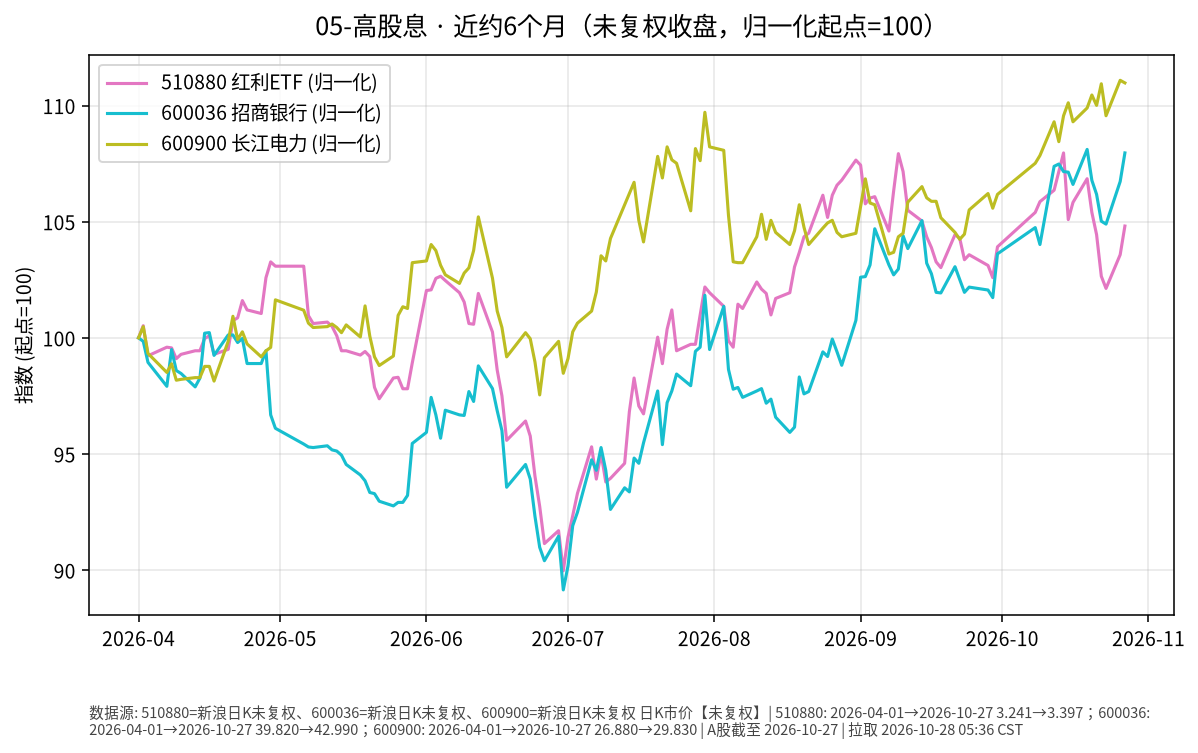
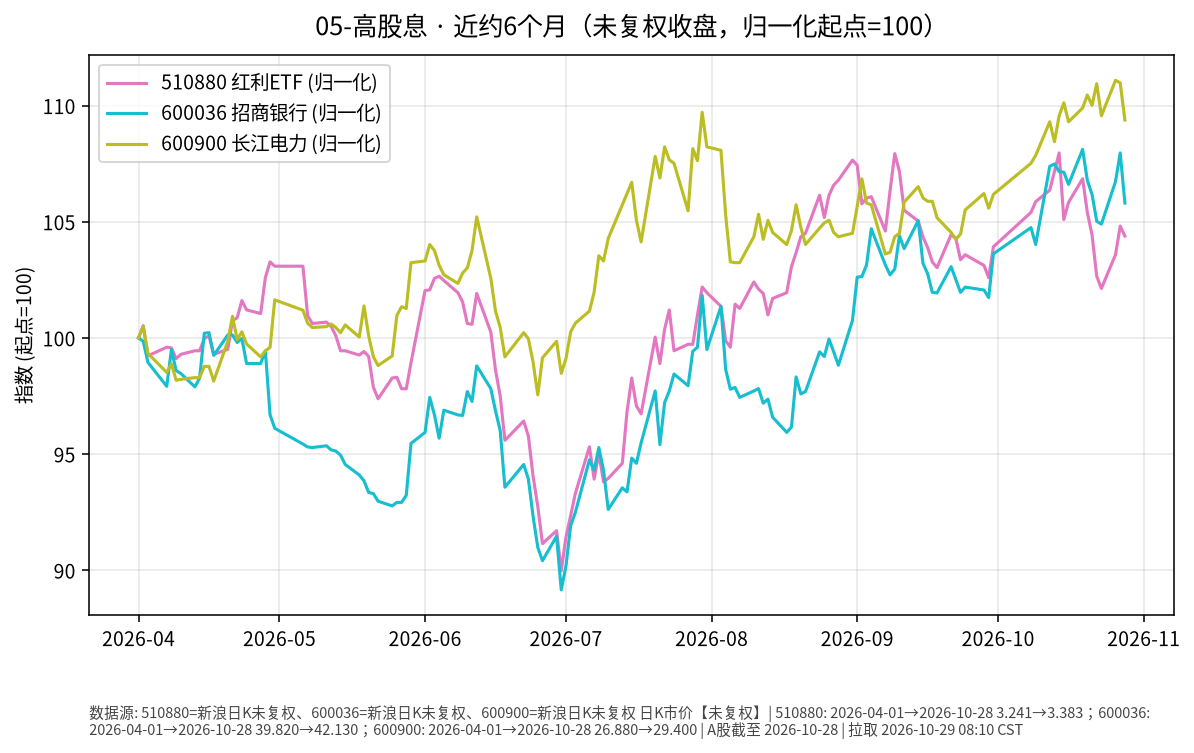
docs: 五门类投资日报 2026-10-29

diff --git a/01-黄金/日报/2026-10-29.md b/01-黄金/日报/2026-10-29.md
@@ -1,0 +1,30 @@
+# 黄金 · 日报 2026-10-29
+
+## 市场状态
+- **报告日**：2026-10-29（周四，Asia/Shanghai 盘前例程）
+- **数据截止交易日**：美股/GLD **2026-10-28**；A 股/沪金 **2026-10-28**（周三收盘；周四盘前取上一交易日）。A 股交易日历显示 **2026-10-29 为交易日**，本页数字不含周四盘中。
+- GLD 收盘 **373.51**，较前一交易日 **+0.33%**（akshare 日 K；yfinance/Yahoo 当日限流）。
+- 沪金 AU9999：**2026-10-28** 收盘 **868.99** 元/克（**+1.01%**）；黄金 ETF 518880 收 **8.226**（**+0.72%**）。
+
+## 关键数据
+| 标的 | 最近收盘日 | 收盘 | 日涨跌 | 近约6个月（归一起点日） | 区间涨跌 |
+|------|------------|------|--------|-------------------------|----------|
+| GLD | 2026-10-28 | 373.51 | +0.33% | 2026-04-28→2026-10-28 | -11.47% |
+| 518880 黄金ETF | 2026-10-28 | 8.226 | +0.72% | 2026-04-28→2026-10-28 | -15.47% |
+| AU9999（沪金） | 2026-10-28 | 868.99 | +1.01% | 2026-04-28→2026-10-28 | -14.87% |
+
+![近6个月走势](./charts/01-黄金-6m.png)
+
+## 简要解读
+- 美元计价黄金 ETF（GLD）在 **2026-10-28** 小幅上行（约 **+0.33%**），境内 518880、沪金 AU9999 同日亦上行（约 **+0.72%** / **+1.01%**）；近约半年归一后约 **-11.47%～-15.47%**。
+- 价格变动同时受美元、实际利率与风险情绪影响；本页只描述已发生报价，不推断下一步方向。
+
+## 关注点与风险
+- 汇率：境内投资者若以人民币计量，还需叠加美元兑人民币变动，账面涨跌可能与 GLD 美元涨跌不一致。
+- 波动：黄金阶段性回撤后波动仍可能放大；ETF 净值/溢价、交易时段与现货不完全同步。
+- 数据完整性：GLD 历史主序列来自 akshare（yfinance/Yahoo 当日限流），**2026-10-28** 收盘已在日 K 中；518880 新浪日 K；SGE Au99.99 完整。图中三条归一曲线均已叠加。
+
+## 来源与时间
+- GLD：akshare `stock_us_daily`（至 2026-10-28 收 373.51）；拉取约 2026-10-29 08:11 Asia/Shanghai
+- 518880：新浪日 K；AU9999：上海金交所 Dailyhq
+- 图表：Python matplotlib，收盘价归一到起点=100（图窗自 2026-04-01 起）

diff --git a/03-国债/日报/2026-10-29.md b/03-国债/日报/2026-10-29.md
@@ -1,0 +1,29 @@
+# 国债 · 日报 2026-10-29
+
+## 市场状态
+- **报告日**：2026-10-29；**数据截止交易日**：**2026-10-28**。
+- 国债 ETF 511010 收 **141.216**，日涨跌 **+0.009%**（近乎持平）。
+- 中债国债收益率曲线 **10 年期** 2026-10-28 报 **1.6345%**，较上一交易日（2026-10-27 的 1.6258%）约 **+0.87 BP**（akshare `bond_zh_us_rate`）。
+- **提醒**：利率上行（曲线抬升）通常对应既有国债价格承压；图中 ETF 净值涨 ≠ 收益率涨。**利率↑线↑≠债价涨**。
+
+## 关键数据
+| 标的 | 收盘日 | 收盘/收益率 | 日变化 | 约6个月 | 区间 |
+|------|--------|-------------|--------|---------|------|
+| 511010 | 2026-10-28 | 141.216 | +0.009% | 2026-04-28→2026-10-28 | +0.28% |
+| 中债10Y国债收益率 | 2026-10-28 | 1.6345% | 约+0.87 BP | 2026-04-01→2026-10-28 | 约 -18.99 BP（akshare 序列） |
+
+![近6个月走势](./charts/03-国债-6m.png)
+
+## 简要解读
+- 511010 近半年归一涨跌约 **+0.28%**，路径相对平缓；2026-10-28 微升，同时 10Y 收益率较前一日上行约 0.87 BP（利率↑对存量债价偏压制，单日 ETF 仍可能因供需/折溢价微动）。
+- 久期越长，对收益率变化越敏感；本页只记录 ETF 收盘与曲线点位。图中右轴叠加中国10Y收益率日序。
+
+## 关注点与风险
+- 利率风险：收益率上行 → 债券市价下行。
+- 通胀预期、货币政策与供需（供给放量等）都会改变曲线形态。
+- 收益率序列来自公开曲线汇总，与 ETF 交易价时间戳不完全同步。
+
+## 来源与时间
+- 511010：新浪日 K；截止 2026-10-28
+- 收益率：akshare `bond_zh_us_rate`（2026-10-28，10Y=1.6345%）
+- 图表：matplotlib，ETF 收盘归一=100，中国10Y 收益率右轴

diff --git a/05-高股息/日报/2026-10-29.md b/05-高股息/日报/2026-10-29.md
@@ -1,0 +1,30 @@
+# 高股息 · 日报 2026-10-29
+
+## 市场状态
+- **报告日**：2026-10-29；**数据截止交易日**：**2026-10-28**。
+- 红利 ETF 510880 收 **3.383**（**-0.41%**）。
+- 招商银行 600036 收 **42.13**（**-2.00%**）；长江电力 600900 收 **29.40**（**-1.44%**）。
+- 红利 ETF、招行、长电同日均下行；分红与价格涨跌是两回事（股息率随股价变动）。
+- **价格口径**：本页序列为交易所日 K **未复权**收盘（新浪）。
+
+## 关键数据
+| 标的 | 收盘日 | 收盘 | 日涨跌 | 约6个月 | 区间涨跌 |
+|------|--------|------|--------|---------|----------|
+| 510880 红利ETF | 2026-10-28 | 3.383 | -0.41% | 2026-04-28→2026-10-28 | +1.74% |
+| 600036 招商银行 | 2026-10-28 | 42.13 | -2.00% | 2026-04-28→2026-10-28 | +6.39% |
+| 600900 长江电力 | 2026-10-28 | 29.40 | -1.44% | 2026-04-28→2026-10-28 | +9.99% |
+
+![近6个月走势](./charts/05-高股息-6m.png)
+
+## 简要解读
+- 近半年归一（未复权）：510880 约 **+1.74%**，招行约 **+6.39%**，长电约 **+9.99%**（个股路径强于宽基红利 ETF，不代表未来）。
+- 2026-10-28 三者均下行，属已发生的价格事实。
+
+## 关注点与风险
+- 银行与公用事业对利率、监管、来水/电价等基本面敏感；高股息不保证本金稳定。
+- 510880 成分与权重定期调整；个股与 ETF 走势可显著偏离。
+- 未复权序列在除权除息日会出现跳空，与前复权路径不一致属正常。
+
+## 来源与时间
+- 510880 / 600036 / 600900：新浪 CN_MarketData K 线（未复权）
+- 截止 2026-10-28；图表 matplotlib，起点=100

diff --git a/02-中短债/日报/2026-10-29.md b/02-中短债/日报/2026-10-29.md
@@ -1,0 +1,28 @@
+# 中短债 · 日报 2026-10-29
+
+## 市场状态
+- **报告日**：2026-10-29；**A 股数据截止交易日**：**2026-10-28**（周四盘前，取周三收盘）。交易日历：**2026-10-29 为开市日**。
+- 短融 ETF 511360 收 **114.100**（日涨跌 **-0.008%**）。
+- 159649（国开债 ETF 华安）收 **110.792**（日涨跌 **+0.013%**）。
+- 短端品种单日变动极小；仅作路径对照，非交易建议。
+
+## 关键数据
+| 标的 | 收盘日 | 收盘 | 日涨跌 | 约6个月区间 | 区间涨跌 |
+|------|--------|------|--------|-------------|----------|
+| 511360 短融ETF海富通 | 2026-10-28 | 114.100 | -0.008% | 2026-04-28→2026-10-28 | +0.63% |
+| 159649 国开债ETF华安 | 2026-10-28 | 110.792 | +0.013% | 2026-04-28→2026-10-28 | +1.07% |
+
+![近6个月走势](./charts/02-中短债-6m.png)
+
+## 简要解读
+- 两条曲线近半年均呈缓慢抬升（归一后约 **+0.63%** / **+1.07%**），单日波动接近于零，符合短久期利率品种特征。
+- 159649 跟踪国开债，久期与信用暴露通常高于纯短融；与 511360 并排只为对照路径，不暗示优劣。
+
+## 关注点与风险
+- 利率上行时净值可能回撤（即使票息仍为正）。
+- ETF 折溢价、流动性与跟踪误差；节假日后跳空可能出现。
+- 杠杆与加久期会放大波动——本报告不讨论、不鼓励此类操作。
+
+## 来源与时间
+- 新浪 CN_MarketData 日 K，截止 2026-10-28
+- 图表：matplotlib，起点归一=100；拉取约 2026-10-29 08:11 Asia/Shanghai

diff --git a/04-纯债/日报/2026-10-29.md b/04-纯债/日报/2026-10-29.md
@@ -1,0 +1,28 @@
+# 纯债 · 日报 2026-10-29
+
+## 市场状态
+- **报告日**：2026-10-29；**数据截止交易日**：**2026-10-28**。
+- 城投债 ETF 511220 收 **10.466**（**-0.010%**）。
+- 政金债/债券 ETF 511520 收 **119.905**（**+0.025%**）。
+- 511220 微跌、511520 微升；近半年仍呈缓慢抬升。
+
+## 关键数据
+| 标的 | 收盘日 | 收盘 | 日涨跌 | 约6个月区间 | 区间涨跌 |
+|------|--------|------|--------|-------------|----------|
+| 511220 城投债ETF海富通 | 2026-10-28 | 10.466 | -0.010% | 2026-04-28→2026-10-28 | +1.27% |
+| 511520 政金债ETF富国 | 2026-10-28 | 119.905 | +0.025% | 2026-04-28→2026-10-28 | +2.51% |
+
+![近6个月走势](./charts/04-纯债-6m.png)
+
+## 简要解读
+- 近半年归一：511220 约 **+1.27%**，511520 约 **+2.51%**；2026-10-28 前者微跌、后者微升。
+- 城投债含信用利差暴露，政金债更偏利率；并排对照路径，不评价孰优。
+
+## 关注点与风险
+- 信用利差扩张时，城投/信用类净值回撤可能大于利率债。
+- 利率上行同样压制久期更长的品种。
+- ETF 折溢价与跟踪误差；本报告不讨论杠杆与下沉信用。
+
+## 来源与时间
+- 新浪 CN_MarketData 日 K，截止 2026-10-28
+- 图表：matplotlib，起点归一=100

diff --git a/notes/invest-knowledge-100/今日一点/2026-10-29-day04.md b/notes/invest-knowledge-100/今日一点/2026-10-29-day04.md
@@ -1,0 +1,5 @@
+# 今日一点 · Day 4/100 · 《名义收益 vs 实际收益》
+
+**结论：** 名义收益是账户数字涨了多少；实际收益还要扣掉通胀对购买力的侵蚀。现金长期趴账也有「静默风险」——账面不动，能买到的东西可能变少。
+
+**名义收益**看的是报价或净值涨跌，单位是货币本身。**实际收益**大致可理解为名义收益减去通胀（粗略口径，非精确会计）。若一年名义 +2%、同期通胀约 2%，购买力几乎没涨；若通胀更高，实际甚至为负。风险厌恶者常把现金当「安全」，但长期现金化面对的是购买力静默缩水，而不是波动曲线上的大起大落。债底仓的票息路径，要对照通胀与动用年限一起读——今天只记名义与实际的差别，不谈买卖。

diff --git a/notes/invest-knowledge-100/progress.md b/notes/invest-knowledge-100/progress.md
@@ -1,4 +1,4 @@
-next_day: 4
+next_day: 5
 started: 2026-10-26
-last_completed_day: 3
-last_date: 2026-10-28
+last_completed_day: 4
+last_date: 2026-10-29
